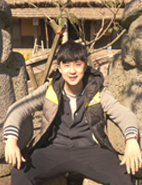
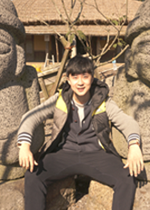
3-7

diff --git a/js/index.js b/js/index.js
@@ -110,7 +110,7 @@ $(document).ready(function(){
   							width:               10,
   							text:                function(value){return value + '%';},
   							colors:              ['#EFE3AD', '#EFC300'],
-  							duration:            500,
+  							duration:            100,
   							wrpClass:            'circles-wrp',
   							textClass:           'circles-text',
   							valueStrokeClass:    'circles-valueStroke',
@@ -126,7 +126,7 @@ $(document).ready(function(){
   							width:               10,
   							text:                function(value){return value + '%';},
   							colors:              ['#A4F8F8', '#3DA1FF'],
-  							duration:            500,
+  							duration:            100,
   							wrpClass:            'circles-wrp',
   							textClass:           'circles-text',
   							valueStrokeClass:    'circles-valueStroke',
@@ -142,7 +142,7 @@ $(document).ready(function(){
   							width:               10,
   							text:                function(value){return value + '%';},
   							colors:              ['#D2FED2', '#00FF00'],
-  							duration:            500,
+  							duration:            100,
   							wrpClass:            'circles-wrp',
   							textClass:           'circles-text',
   							valueStrokeClass:    'circles-valueStroke',
@@ -158,7 +158,7 @@ $(document).ready(function(){
   							width:               10,
   							text:                function(value){return value + '%';},
   							colors:              ['#FCAAAA', '#F90505'],
-  							duration:            500,
+  							duration:            100,
   							wrpClass:            'circles-wrp',
   							textClass:           'circles-text',
   							valueStrokeClass:    'circles-valueStroke',
@@ -174,7 +174,7 @@ $(document).ready(function(){
   							width:               10,
   							text:                function(value){return value + '%';},
   							colors:              ['#EFE3AD', '#EFC300'],
-  							duration:            500,
+  							duration:            100,
   							wrpClass:            'circles-wrp',
   							textClass:           'circles-text',
   							valueStrokeClass:    'circles-valueStroke',
@@ -190,7 +190,7 @@ $(document).ready(function(){
   							width:               10,
   							text:                function(value){return value + '%';},
   							colors:              ['#A4F8F8', '#3DA1FF'],
-  							duration:            500,
+  							duration:            100,
   							wrpClass:            'circles-wrp',
   							textClass:           'circles-text',
   							valueStrokeClass:    'circles-valueStroke',
@@ -206,7 +206,7 @@ $(document).ready(function(){
   							width:               10,
   							text:                function(value){return value + '%';},
   							colors:              ['#D2FED2', '#00FF00'],
-  							duration:            500,
+  							duration:            100,
   							wrpClass:            'circles-wrp',
   							textClass:           'circles-text',
   							valueStrokeClass:    'circles-valueStroke',
@@ -222,7 +222,7 @@ $(document).ready(function(){
   							width:               10,
   							text:                function(value){return value + '%';},
   							colors:              ['#FCAAAA', '#F90505'],
-  							duration:            500,
+  							duration:            100,
   							wrpClass:            'circles-wrp',
   							textClass:           'circles-text',
   							valueStrokeClass:    'circles-valueStroke',

diff --git a/index.html b/index.html
@@ -11,12 +11,6 @@
 <script type="text/javascript" src="js/index.js"></script>
 <script type="text/javascript" src="js/common.js"></script>
 <script src="js/circles.min.js"></script>
-<script>
-	
-</script>
-<style>
-	
-</style>
 </head> 
 <body> 
 	<div id="top">
@@ -39,10 +33,10 @@
 	</div>
 	<div id="content">
  		<div class="content_1" style="background-color:rgb(60, 142, 213);">
- 			<div class="pic">
+ 			<div class="pic" style="display:block;border-color:#FFFFFF;">
 				<ul>
-					<li style="z-index:1000;"><img class='img_border' src="img/jianli1.png"></li>
-					<li style="z-index:999;"><img class='img_border' src="img/jianli2.png"></li>
+					<li style="z-index:1000;display:list-item;"><img src="img/jianli1.png" class="pic_radius"></li>
+					<li style="z-index:999;"><img src="img/jianli2.png" class="pic_radius"></li>
 				</ul>	
  			</div>
  			<div class="name" style="margin-top:350px;">
@@ -86,7 +80,7 @@
  				<div class="me_2" style="top:75%;left:30%;width:250px;height:125px;">
  					<h2>通过学习以及在工作中的实践，已可以熟练使用<span>(X)HTML/CSS/JavaScript</span>技术，掌握<span>jQuery</span>、<span>bootstrap</span>框架的使用，掌握<span>AJAX</span>及<span>DOM</span>技术，熟悉<span>Html5+CSS3</span>的布局，并能够解决浏览器<span>兼容性</span>问题</h2>
  				</div>
- 				<div class="me_2" style="top:50%;left:15%;width:230px;height:130px;">
+ 				<div class="me_2" style="top:50%;left:15%;width:230px;height:122px;">
  					<h2>除去实践及平时学习，我还非常注重基础知识的积累和查缺补漏，利用业余时间完成了多类图书的阅读，并开始着手<span>PHP</span>、<span>JAVA</span>、<span>Node.JS</span>等后端语言的学习</h2>
  				</div>
  				<canvas id="c1" width="80" height="169" style="-border:1px solid #c3c3c3;"></canvas>

diff --git a/css/style.css b/css/style.css
@@ -200,9 +200,9 @@
 
 
 /* content_1 布置 */
-.pic{width:150px;height:200px;border:5px solid #FFFFFF;position:relative;top:150px;border-radius:50px;overflow:hidden;display:none;margin:0 auto;display:none;}
+.pic{width:150px;height:210px;border:5px solid #FFFFFF;position:relative;top:150px;border-radius:50px;overflow:hidden;display:none;margin:0 auto;display:none;}
 .pic li{position:absolute;cursor:pointer;}
-.img_border{width:150px;height:200px;border-radius:50px;}
+.pic_radius{width:150px;height:210px;border-radius:45px;}
 .name{width:1000px;height:150px;margin:0 auto;position:relative;top:-170px;color:#FFFFFF;display:none;}
 .introduce{position:relative;margin:0 auto;width:1000px;height:200px;top:-180px;display:none;}
 .introduce_line{width:0px;height:3px;background-color:#FFFFFF;margin:0 auto;display:none;}
